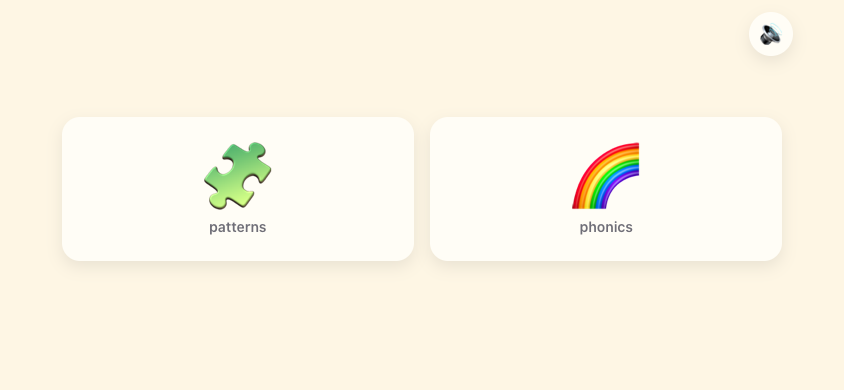
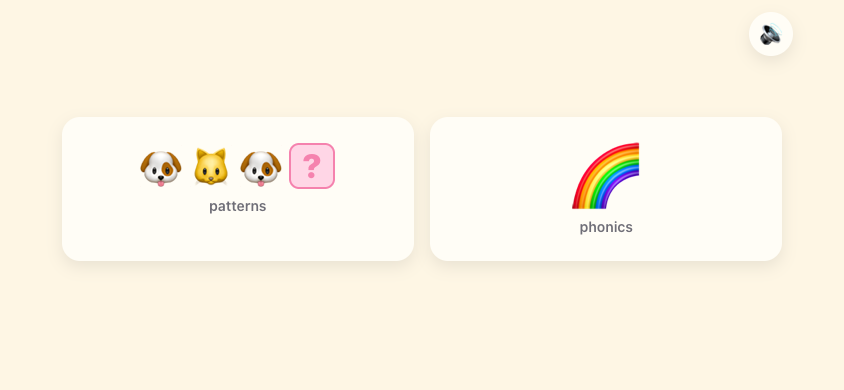
picker: patterns tile renders a literal mini sequence
🐶 🐱 🐶 [?] — three items + the pink missing-slot that mirrors the
in-game UI. The puzzle emoji conflated patterns with jigsaws; the
sequence teaches the "what comes next?" mechanic at a glance, no
reading required.

- registry.GameDef gains optional `renderIcon(container)` so each
  game can provide a custom picker icon. Patterns supplies one;
  phonics still falls through to the rainbow emoji.

Changed region(s): [[0.154, 0.3692, 0.4005, 0.6154]]

diff --git a/src/games/registry.ts b/src/games/registry.ts
@@ -12,12 +12,41 @@ export interface GameDef {
   id: string;
   /** Single-word label (incidental reading; navigation must work without it). */
   label: string;
-  /** Big emoji shown on the picker card. */
+  /** Fallback glyph + aria text. Used when renderIcon isn't supplied. */
   emoji: string;
+  /** Optional custom icon renderer for the picker card (e.g. a literal
+   *  pattern sequence rather than a single emoji). */
+  renderIcon?: (container: HTMLElement) => void;
   mount: (container: HTMLElement, opts: MountOpts) => () => void;
 }
 
+function renderPatternsIcon(container: HTMLElement): void {
+  const seq = document.createElement('div');
+  seq.className = 'picker-icon-sequence';
+  // A literal "what comes next?" pattern so the icon teaches the
+  // mechanic at a glance — kids should not need to read the label.
+  const cells: Array<{ glyph: string; slot?: boolean }> = [
+    { glyph: '🐶' },
+    { glyph: '🐱' },
+    { glyph: '🐶' },
+    { glyph: '?', slot: true },
+  ];
+  for (const c of cells) {
+    const el = document.createElement('span');
+    el.className = c.slot ? 'picker-icon-cell picker-icon-slot' : 'picker-icon-cell';
+    el.textContent = c.glyph;
+    seq.append(el);
+  }
+  container.append(seq);
+}
+
 export const GAMES: GameDef[] = [
-  { id: 'patterns', label: 'patterns', emoji: '🧩', mount: mountPatterns },
+  {
+    id: 'patterns',
+    label: 'patterns',
+    emoji: '🐶🐱🐶?',
+    renderIcon: renderPatternsIcon,
+    mount: mountPatterns,
+  },
   { id: 'phonics', label: 'phonics', emoji: '🌈', mount: mountPhonics },
 ];

diff --git a/public/style.css b/public/style.css
@@ -504,6 +504,29 @@ body {
   font-size: clamp(48px, 8vw, 84px);
   line-height: 1;
 }
+.picker-icon-sequence {
+  display: flex;
+  align-items: center;
+  justify-content: center;
+  gap: clamp(4px, 0.9vw, 10px);
+}
+.picker-icon-cell {
+  font-size: clamp(28px, 5vw, 52px);
+  line-height: 1;
+}
+.picker-icon-cell.picker-icon-slot {
+  font-size: clamp(22px, 4vw, 42px);
+  color: var(--accent);
+  background: var(--accent-soft);
+  border: 2px solid var(--accent);
+  border-radius: 10px;
+  width: clamp(34px, 5.5vw, 56px);
+  height: clamp(34px, 5.5vw, 56px);
+  display: inline-flex;
+  align-items: center;
+  justify-content: center;
+  font-weight: 900;
+}
 .picker-label {
   font-size: clamp(14px, 1.6vw, 18px);
   color: var(--muted);

diff --git a/src/picker.ts b/src/picker.ts
@@ -33,7 +33,8 @@ export function mount(
 
     const icon = document.createElement('div');
     icon.className = 'picker-icon';
-    icon.textContent = g.emoji;
+    if (g.renderIcon) g.renderIcon(icon);
+    else icon.textContent = g.emoji;
     card.append(icon);
 
     const label = document.createElement('div');